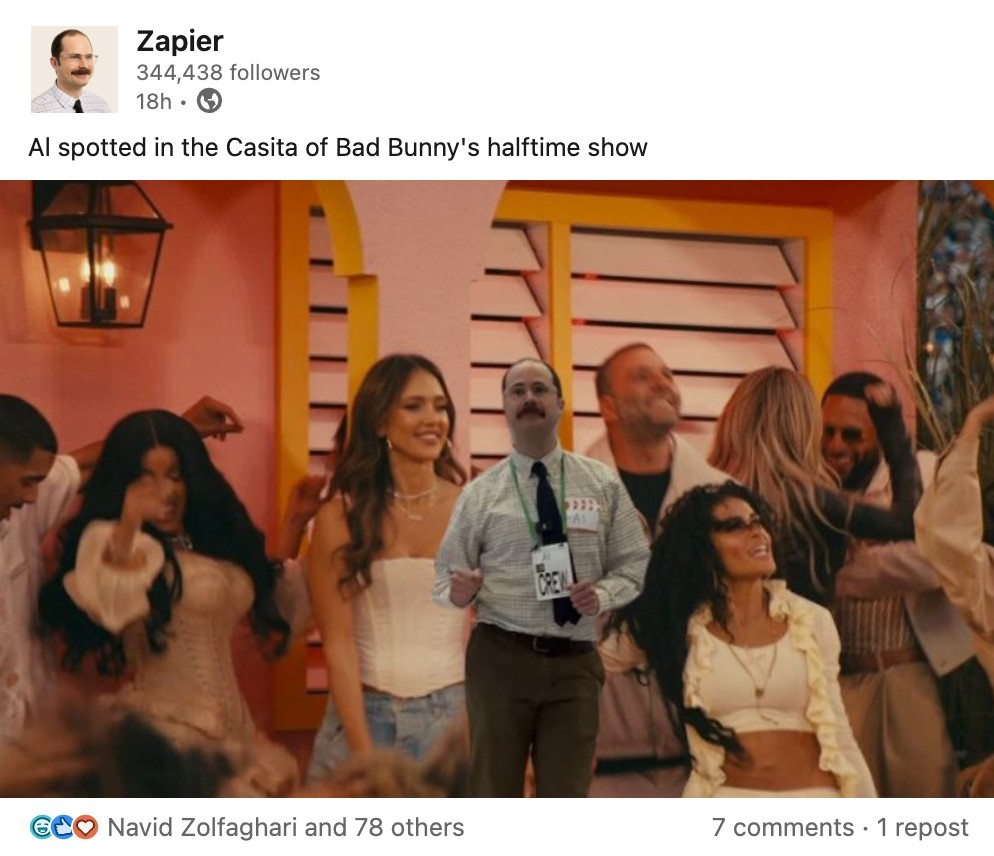
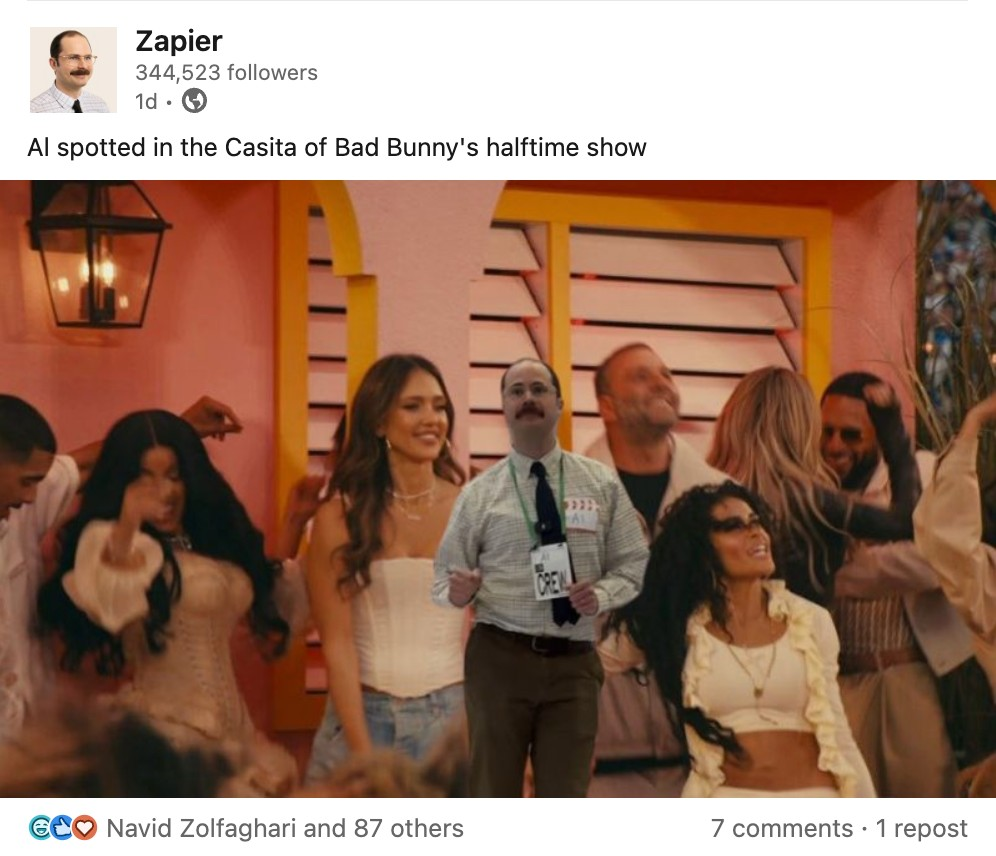
Update casita and leo-pointing images and metrics

diff --git a/index.html b/index.html
@@ -862,7 +862,7 @@
               <div class="carousel-overlay">
                 <div class="carousel-caption">Zapier users seeing our ad at halftime</div>
                 <div class="carousel-metrics">
-                  <span>110 reactions</span>
+                  <span>118 reactions</span>
                   <span>9 comments</span>
                 </div>
               </div>
@@ -872,7 +872,7 @@
               <div class="carousel-overlay">
                 <div class="carousel-caption">Al spotted in the Casita of Bad Bunny's halftime show</div>
                 <div class="carousel-metrics">
-                  <span>79 reactions</span>
+                  <span>87 reactions</span>
                   <span>7 comments</span>
                 </div>
               </div>
